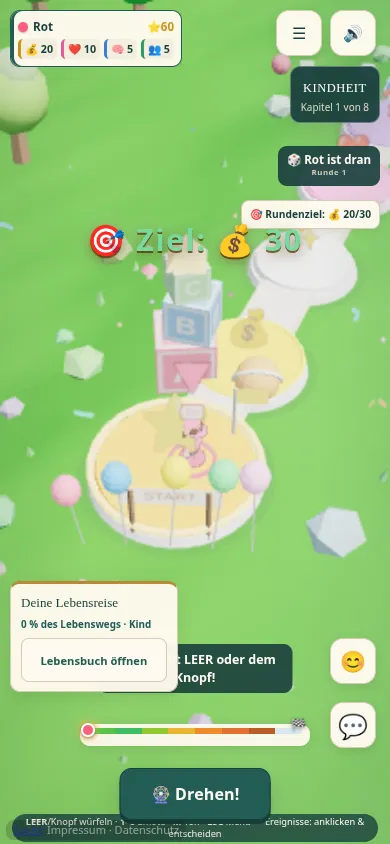
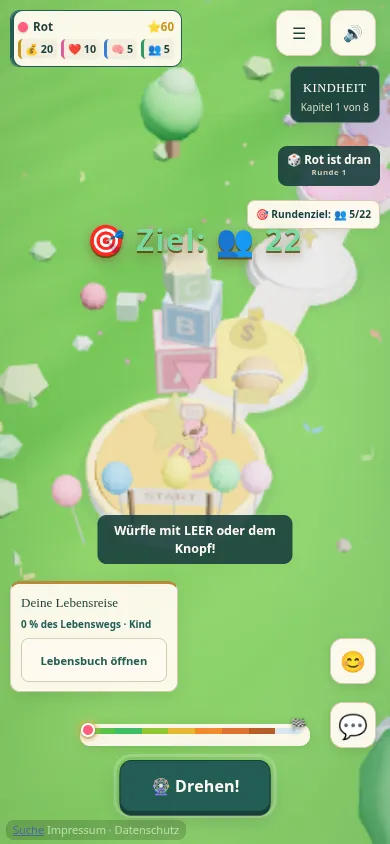
Lebenspfad: Hinweise und Fußbereich auf kleinen Displays entzerren

diff --git a/css/lebenspfad.css b/css/lebenspfad.css
@@ -381,3 +381,15 @@ body:has(#netHud:not(.hide)) #journeyPanel { bottom: 248px; }
   #journeyPanel .journey-open { margin-top: 6px; padding: 6px 7px; font-size: .7rem; }
   body:has(#netHud:not(.hide)) #journeyPanel { max-height: none; }
 }
+
+/* Hinweis, Buch und feste Fußlinks brauchen auch hochkant eigene Zeilen. */
+@media (max-width: 640px) {
+  #keysHelp { display: none; }
+  #hint { bottom: 280px; max-width: calc(100vw - 28px); }
+  #rollBtn { bottom: max(32px, env(safe-area-inset-bottom)); }
+}
+@media (min-width: 481px) and (max-width: 640px) and (max-height: 480px) {
+  #journeyPanel { bottom: 28px; width: 180px; }
+  #progMap { left: auto !important; right: 14px; transform: none !important; width: calc(100vw - 234px) !important; }
+  #hint { left: auto; right: 14px; transform: none; bottom: 130px; max-width: calc(100vw - 234px); }
+}

diff --git a/lebenspfad.html b/lebenspfad.html
@@ -187,7 +187,7 @@ html,body{height:100%;overflow:hidden;background:linear-gradient(180deg,#6ec8f5,
 @media(prefers-reduced-motion:reduce){.album.play .polaroid{animation:none;opacity:1}}
 @keyframes pulse{0%,100%{transform:scale(1)}50%{transform:scale(1.05)}}
 </style>
-<link rel="stylesheet" href="/css/lebenspfad.css?v=dd1571dd6fed">
+<link rel="stylesheet" href="/css/lebenspfad.css?v=124e3c83a8fe">
 </head>
 <body>
 <div id="lpvig"></div>

diff --git a/spiele-dev/lebenspfad/VERBESSERUNGEN.md b/spiele-dev/lebenspfad/VERBESSERUNGEN.md
@@ -85,6 +85,10 @@ Handys oder 60 FPS. Messwerte und Bilder liegen unter [belege](belege/).
   Altersstufen, erhöhtes Hauptpfadfeld, aktive und tatsächlich beendete Geste.
   Nach Gestenende stehen die Schuhe wieder auf dem Deckel. Zusätzliche separate
   4K-HUD-Messung: fünf erreichbare Bedienelemente. Keine Browserfehler.
+- Letzte Handy-Gegenprobe: Hinweis/Buch, Bedienhilfe/Fußlinks und
+  Würfelknopf/Fußlinks überschnitten sich bei 360×640. Korrigierte Abstände und
+  kompakte Querformatanordnung bestehen alle 15 Paarprüfungen in den fünf
+  Testgrößen; der zuvor verwendete CSS-Stand schlägt mit drei Überschneidungen fehl.
 
 Browser-Prüfungen verwenden die tatsächlichen Server- und CSP-Header.
 Keine Zertifikatsausnahmen oder Vertrauensspeicheränderungen. Reale Internet-Räume,
